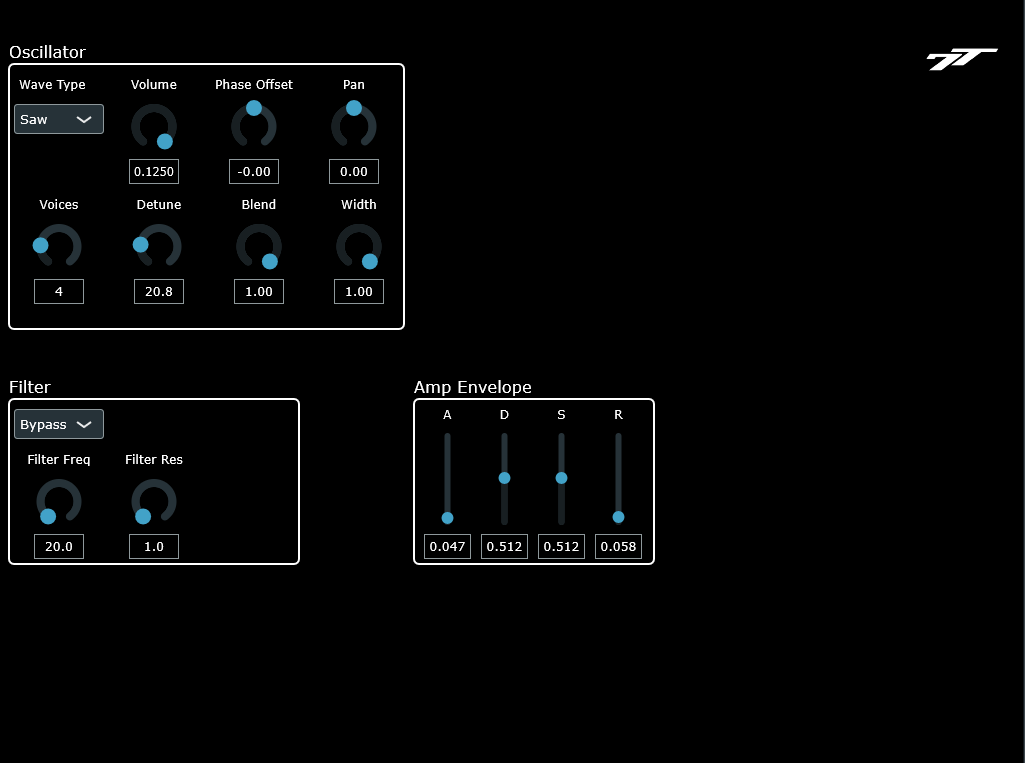
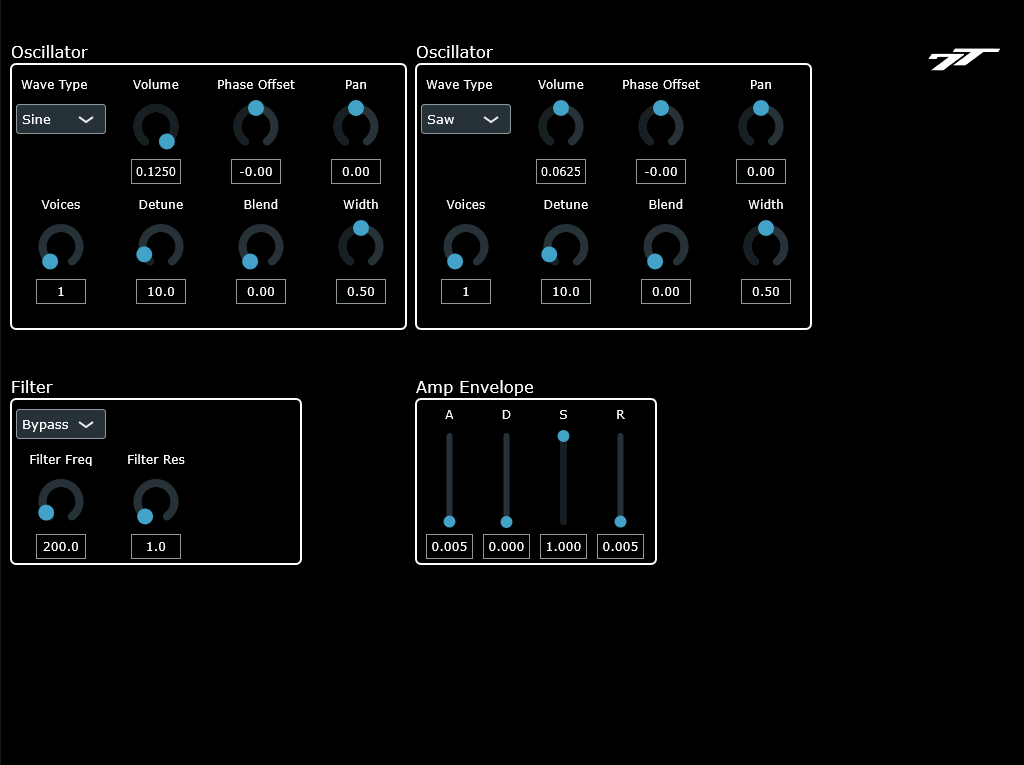
change: email address

diff --git a/src/views/contacts/ContactsView.tsx b/src/views/contacts/ContactsView.tsx
@@ -9,8 +9,8 @@ const contactInfo = [
     {
       icon: <FaEnvelope className="w-6 h-6"/>, 
       title: "Email",
-      value: "tnakhoa2311@gmail.com",
-      link: "mailto:tnakhoa2311@gmail.com",
+      value: "ngocanhk@uoguelph.ca",
+      link: "mailto:ngocanhk@uoguelph.ca",
     },
     {
       icon: <FaPhone className="w-6 h-6"/>,
